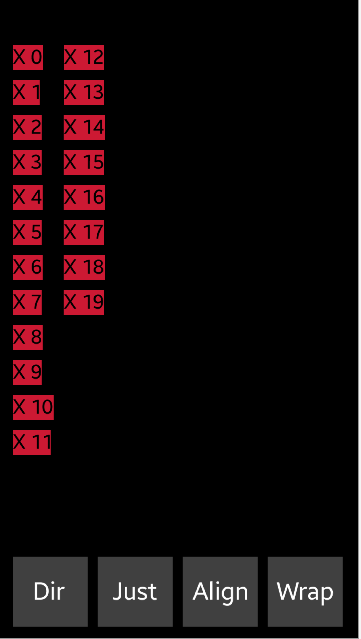
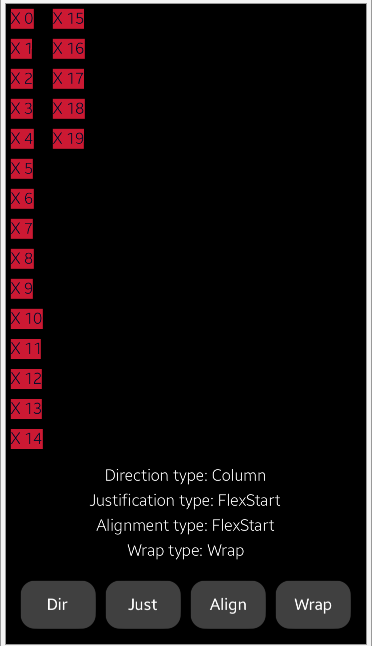
[NUI][FlexLayout] added a field with a description of the flex layout properties

Changed region(s): [[0.0, 0.0, 1.0, 1.0]]

diff --git a/Mobile/NUI/FlexLayout/NUIFlexLayout/NUIFlexLayout.cs b/Mobile/NUI/FlexLayout/NUIFlexLayout/NUIFlexLayout.cs
@@ -26,7 +26,11 @@ namespace NUIFlexLayout
         /// <summary>
         /// All views present in the application
         /// </summary>
-        private View RootView, TopView, ButtonView, FlexView;
+        private View RootView, TopView, ButtonView, FlexView, Description;
+        /// <summary>
+        /// Labels corresponding to the properties changed with a given button
+        /// </summary>
+        private TextLabel Label1, Label2, Label3, Label4;
         /// <summary>
         /// Buttons used to change properties of flex view
         /// </summary>
@@ -92,19 +96,51 @@ namespace NUIFlexLayout
                 BackgroundColor = Color.Black,
             };
 
+            // Initialize Description View
+            Label1 = InitLabel(0.0f);
+            Label2 = InitLabel(0.25f);
+            Label3 = InitLabel(0.5f);
+            Label4 = InitLabel(0.75f);
+            Description = new View()
+            {
+                WidthSpecification = LayoutParamPolicies.MatchParent,
+                HeightSpecification = 200,
+            };
+            Description.Add(Label1);
+            Description.Add(Label2);
+            Description.Add(Label3);
+            Description.Add(Label4);
+
             // Add child views.
             RootView.Add(TopView);
             RootView.Add(ButtonView);
+            RootView.Add(Description);
             Window.Instance.Add(RootView);
             InitFlex();
             Window.Instance.KeyEvent += OnKeyEvent;
         }
 
         /// <summary>
+        /// Initialize a label and put it on the given coordinate inside a parent
+        /// </summary>
+        /// <param name="y">A vertical coordinate of the ParentOrigin</param>
+        private TextLabel InitLabel(float y)
+        {
+            TextLabel Label = new TextLabel()
+            {
+                PositionUsesPivotPoint = true,
+                PivotPoint = PivotPoint.TopCenter,
+                ParentOrigin = new Vector3(0.5f, y, 0.0f),
+                TextColor = Color.White,
+            };
+            return Label;
+        }
+
+        /// <summary>
         /// Initialize flex layout and fill it with text labels
         /// </summary>
         private void InitFlex()
-        {   
+        {
             // Initialize Flex View
             FlexView = new View()
             {
@@ -116,7 +152,11 @@ namespace NUIFlexLayout
                 WidthSpecification = LayoutParamPolicies.MatchParent,
                 BackgroundColor = Color.Black,
             };
-            
+            Label1.Text = "Direction type: " + ((FlexLayout)FlexView.Layout).Direction;
+            Label2.Text = "Justification type: " + ((FlexLayout)FlexView.Layout).Justification;
+            Label3.Text = "Alignment type: " + ((FlexLayout)FlexView.Layout).Alignment;
+            Label4.Text = "Wrap type: " + ((FlexLayout)FlexView.Layout).WrapType;
+
             TopView.Add(FlexView);
 
             // Add elements to Flex View
@@ -190,10 +230,10 @@ namespace NUIFlexLayout
             ButtonView.Add(Button4);
 
             // Register button click events
-            Button1.ClickEvent += Button1Clicked;
-            Button2.ClickEvent += Button2Clicked;
-            Button3.ClickEvent += Button3Clicked;
-            Button4.ClickEvent += Button4Clicked;
+            Button1.Clicked += Button1Clicked;
+            Button2.Clicked += Button2Clicked;
+            Button3.Clicked += Button3Clicked;
+            Button4.Clicked += Button4Clicked;
         }
 
         /// <summary>
@@ -201,13 +241,14 @@ namespace NUIFlexLayout
         /// </summary>
         /// <param name="sender">Button instance</param>
         /// <param name="e">Event arguments</param>
-        private void Button1Clicked(object sender, Button.ClickEventArgs e)
+        private void Button1Clicked(object sender, ClickedEventArgs e)
         {
             FlexLayout Layout = (FlexLayout)FlexView.Layout;
             FlexLayout.FlexDirection newDirection = Layout.Direction + 1;
             if (newDirection > FlexLayout.FlexDirection.RowReverse) {
                 newDirection = FlexLayout.FlexDirection.Column;
             }
+            Label1.Text = "Direction type: " + newDirection;
             Layout.Direction = newDirection;
             FlexView.Layout = Layout;
         }
@@ -217,13 +258,14 @@ namespace NUIFlexLayout
         /// </summary>
         /// <param name="sender">Button instance</param>
         /// <param name="e">Event arguments</param>
-        private void Button2Clicked(object sender, Button.ClickEventArgs e)
+        private void Button2Clicked(object sender, ClickedEventArgs e)
         {
             FlexLayout Layout = (FlexLayout)FlexView.Layout;
             FlexLayout.FlexJustification newJust = Layout.Justification + 1;
-            if (newJust > FlexLayout.FlexJustification.SpaceAround) {
+            if (newJust > FlexLayout.FlexJustification.SpaceEvenly) {
                 newJust = FlexLayout.FlexJustification.FlexStart;
             }
+            Label2.Text = "Justification type: " + newJust;
             Layout.Justification = newJust;
             FlexView.Layout = Layout;
         }
@@ -233,13 +275,14 @@ namespace NUIFlexLayout
         /// </summary>
         /// <param name="sender">Button instance</param>
         /// <param name="e">Event arguments</param>
-        private void Button3Clicked(object sender, Button.ClickEventArgs e)
+        private void Button3Clicked(object sender, ClickedEventArgs e)
         {
             FlexLayout Layout = (FlexLayout)FlexView.Layout;
             FlexLayout.AlignmentType newAlign = Layout.Alignment + 1;
             if (newAlign > FlexLayout.AlignmentType.Stretch) {
                 newAlign = FlexLayout.AlignmentType.Auto;
             }
+            Label3.Text = "Alignment type: " + newAlign;
             Layout.Alignment = newAlign;
             FlexView.Layout = Layout;
         }
@@ -249,7 +292,7 @@ namespace NUIFlexLayout
         /// </summary>
         /// <param name="sender">Button instance</param>
         /// <param name="e">Event arguments</param>
-        private void Button4Clicked(object sender, Button.ClickEventArgs e)
+        private void Button4Clicked(object sender, ClickedEventArgs e)
         {
             FlexLayout Layout = (FlexLayout)FlexView.Layout;
             if (Layout.WrapType == FlexLayout.FlexWrapType.Wrap) {
@@ -258,6 +301,7 @@ namespace NUIFlexLayout
             else {
                 Layout.WrapType = FlexLayout.FlexWrapType.Wrap;
             }
+            Label4.Text = "Wrap type: " + Layout.WrapType;
             FlexView.Layout = Layout;
         }
 
